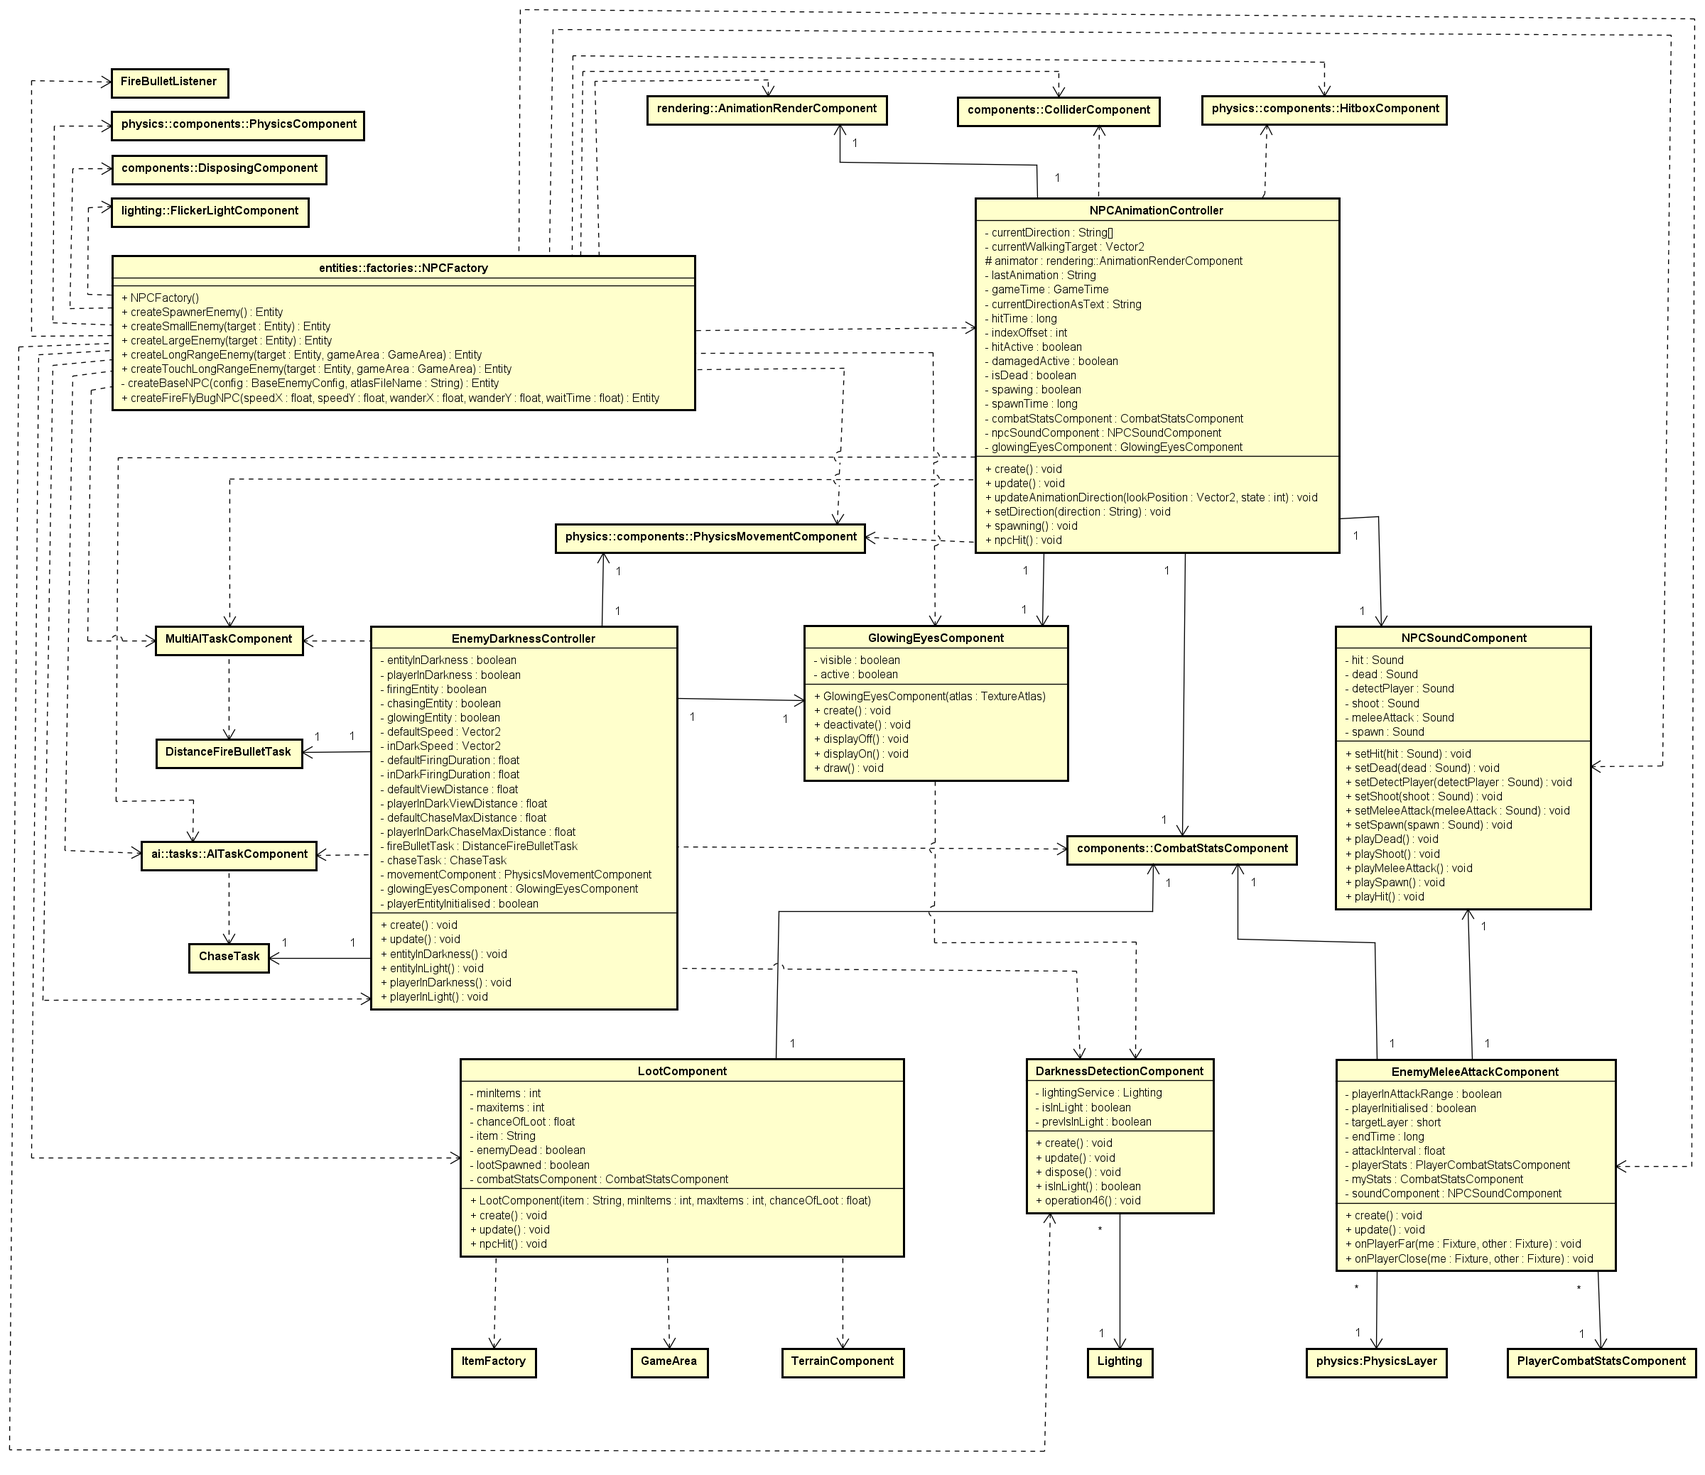
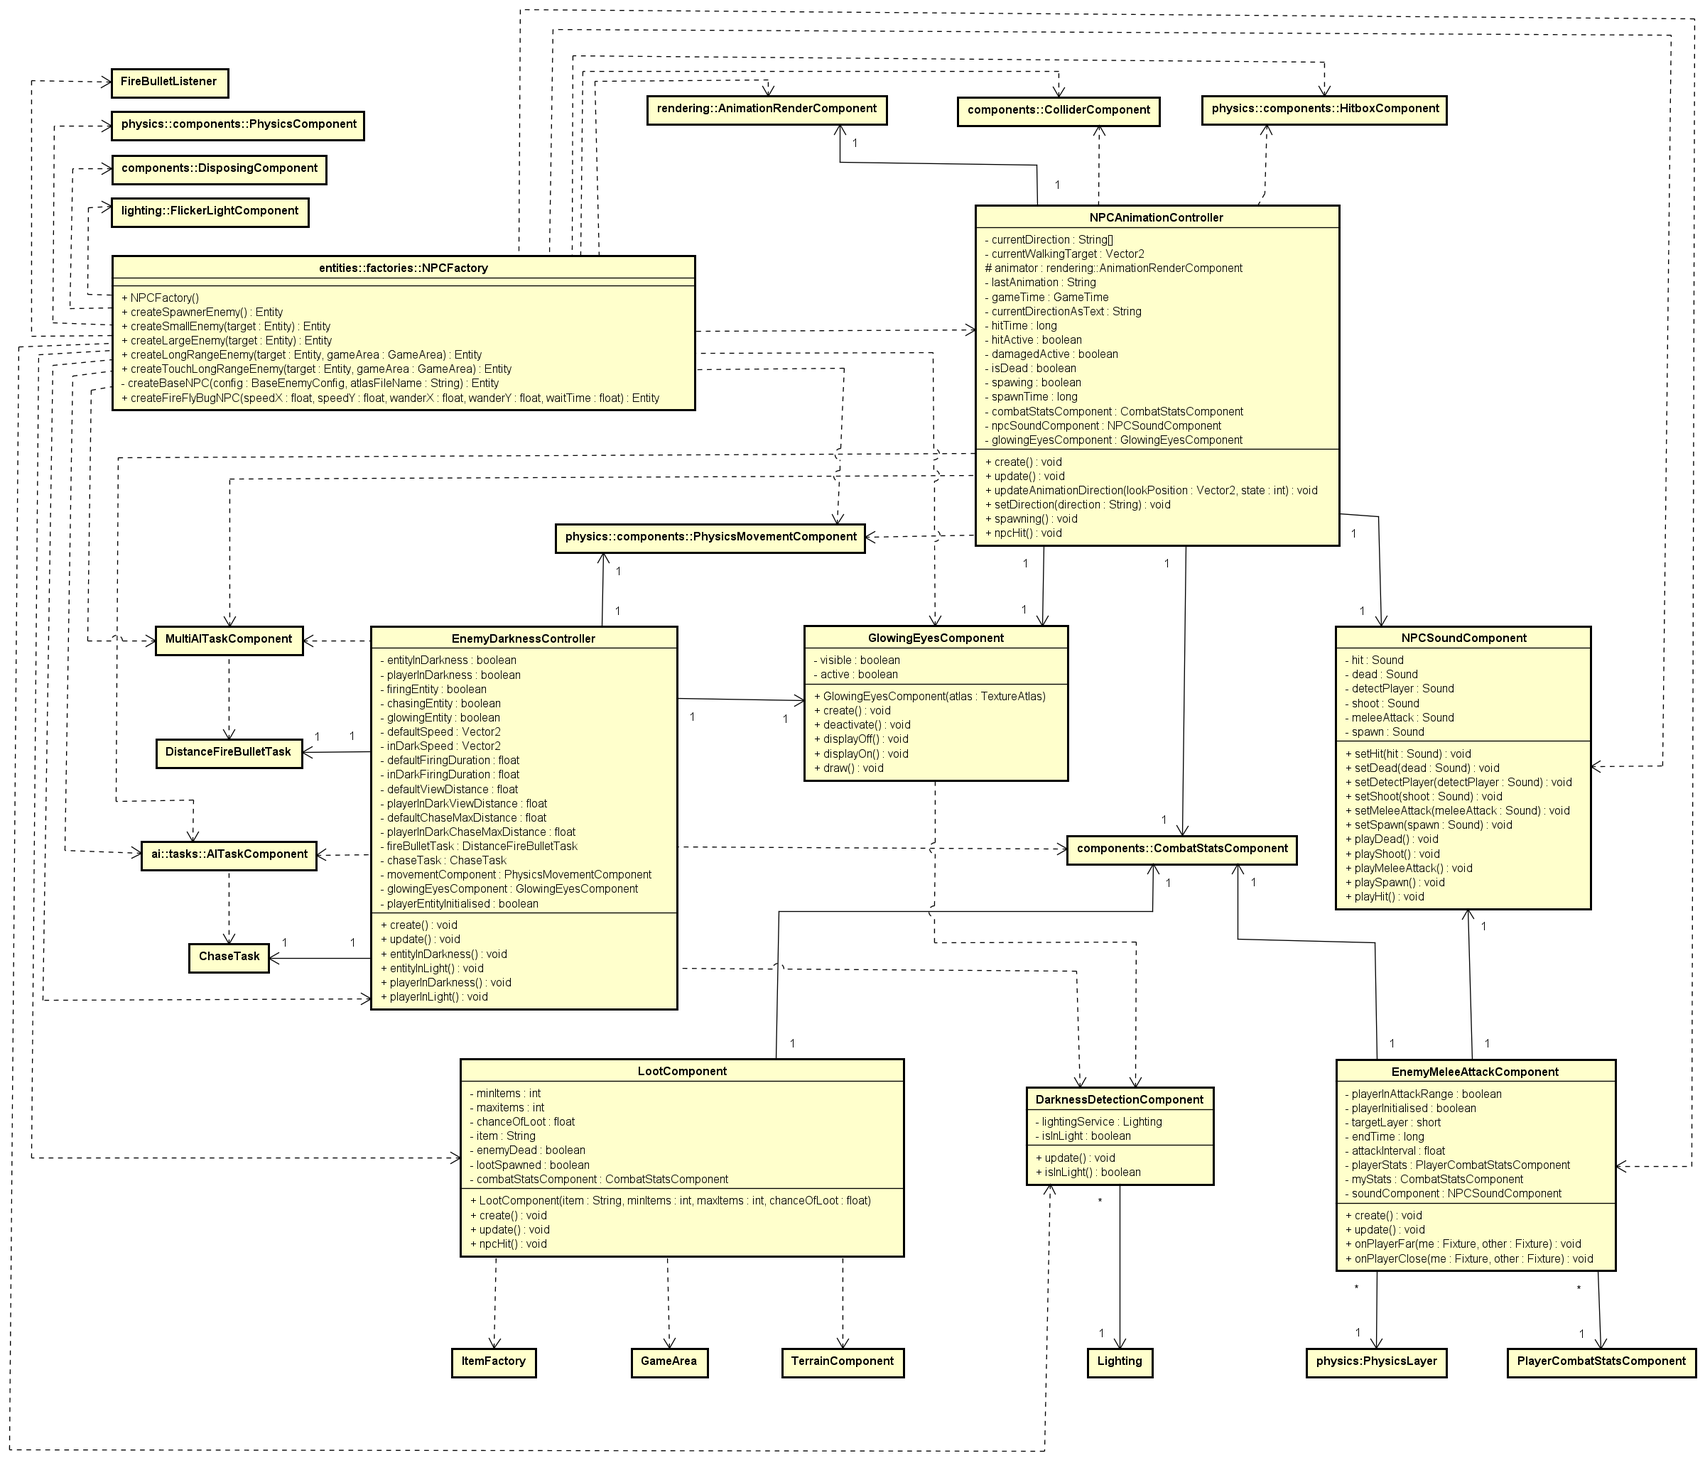
fix some code smells, update enemy uml wiki asset

Changed region(s): [[0.5625, 0.1233, 0.7812, 0.4006], [0.5938, 0.7087, 0.7188, 0.832]]

diff --git a/source/core/src/main/com/deco2800/game/entities/factories/EnemyBulletFactory.java b/source/core/src/main/com/deco2800/game/entities/factories/EnemyBulletFactory.java
@@ -7,12 +7,14 @@ import com.deco2800.game.areas.GameArea;
 import com.deco2800.game.components.CombatStatsComponent;
 import com.deco2800.game.components.TouchAttackComponent;
 import com.deco2800.game.components.npc.BulletCollider;
+import com.deco2800.game.components.npc.ToughFireBulletListener;
 import com.deco2800.game.entities.Entity;
 import com.deco2800.game.lighting.PointLightComponent;
 import com.deco2800.game.physics.PhysicsLayer;
 import com.deco2800.game.physics.PhysicsUtils;
 import com.deco2800.game.physics.components.*;
 import com.deco2800.game.rendering.TextureRenderComponent;
+import com.deco2800.game.services.ServiceLocator;
 
 /**
  * Factory to create 'bullets' from a source entity to a dest entity
@@ -22,11 +24,10 @@ public class EnemyBulletFactory {
 
     /** Creates a bullet entity firing from a source entity through a  target entity
      * @param target the target entity to be fired at
-     * @param gameArea need to spawn the entity in
      * @param source the source of the bullet
      * @param textureFileName the filename for the texture
      */
-    public static void createBullet(Entity source, Entity target, GameArea gameArea, String textureFileName) {
+    public static void createBullet(Entity source, Entity target, String textureFileName) {
 
         float x1 = source.getPosition().x;
         float y1 = source.getPosition().y;
@@ -35,9 +36,10 @@ public class EnemyBulletFactory {
 
         Vector2 newTarget = new Vector2(x2 - x1, y2 - y1);
 
-        Entity bullet = makeBullet(rotateTexture(newTarget, source, x1, y1), newTarget, target, gameArea,
-                source, x1, y1, true, textureFileName);
+        Entity bullet = makeBullet(rotateTexture(newTarget, source, x1, y1), newTarget, target,
+                source, x1, y1, textureFileName);
 
+        GameArea gameArea = ServiceLocator.getGameArea();
         gameArea.spawnEntity(bullet);
     }
 
@@ -46,10 +48,9 @@ public class EnemyBulletFactory {
      * is shifted up 45 degrees from the straight vector and the other is shifted down 45 degrees from the straight vectpr.
      * @param source the source of the bullet
      * @param target the target entity to be fired at
-     * @param gameArea need to spawn the entity in
      * @param textureFileName the filename for the texture
      */
-    public static void createToughBullet(Entity source, Entity target, GameArea gameArea, String textureFileName) {
+    public static void createToughBullet(Entity source, Entity target, String textureFileName) {
         float x1 = source.getPosition().x;
         float y1 = source.getPosition().y;
         float x2 = target.getPosition().x;
@@ -63,15 +64,16 @@ public class EnemyBulletFactory {
         //Shifted down 45 degrees from the straight vector
         Vector2 downRotate = rotateVector(straightTarget, -(Math.PI)/4);
 
-        Entity bulletStraight = makeBullet(rotateTexture(straightTarget, source, x1, y1), straightTarget, target, gameArea,
-                source, x1, y1, false, textureFileName);
+        Entity bulletStraight = makeBullet(rotateTexture(straightTarget, source, x1, y1), straightTarget, target,
+                source, x1, y1, textureFileName);
 
-        Entity bulletUp = makeBullet(rotateTexture(upRotate, source, x1, y1), upRotate, target, gameArea,
-                source, x1, y1, false, textureFileName);
+        Entity bulletUp = makeBullet(rotateTexture(upRotate, source, x1, y1), upRotate, target,
+                source, x1, y1, textureFileName);
 
-        Entity bulletDown = makeBullet(rotateTexture(downRotate, source, x1, y1), downRotate, target, gameArea,
-                source, x1, y1, false, textureFileName);
+        Entity bulletDown = makeBullet(rotateTexture(downRotate, source, x1, y1), downRotate, target,
+                source, x1, y1, textureFileName);
 
+        GameArea gameArea = ServiceLocator.getGameArea();
         gameArea.spawnEntity(bulletStraight);
         gameArea.spawnEntity(bulletUp);
         gameArea.spawnEntity(bulletDown);
@@ -82,15 +84,15 @@ public class EnemyBulletFactory {
      * Calculates the rotation of the bullet texture to point at its target
      * @param rotate the vector to the target
      * @param source the source of the bullet
-     * @param x_1 the x coordinate of the source
-     * @param y_1 the y coordinate of the source
+     * @param x1 the x coordinate of the source
+     * @param y1 the y coordinate of the source
      * @return the rotation of the texture
      */
-    private static float rotateTexture(Vector2 rotate, Entity source, float x_1, float y_1) {
+    private static float rotateTexture(Vector2 rotate, Entity source, float x1, float y1) {
         rotate = rotate.scl(100);
         rotate = rotate.add(source.getPosition());
 
-        return (MathUtils.radiansToDegrees * MathUtils.atan2(rotate.y - y_1, rotate.x - x_1));
+        return (MathUtils.radiansToDegrees * MathUtils.atan2(rotate.y - y1, rotate.x - x1));
     }
 
     /**
@@ -113,16 +115,14 @@ public class EnemyBulletFactory {
      * @param rotation the rotation of the bullet in radians
      * @param destination the vector the bullet follows
      * @param target the target of the bullet
-     * @param gameArea the area to spawn the entity in
      * @param source the source of the bullet
-     * @param x_1 the x coordinate of the source
-     * @param y_1 the y coordinate of the source
+     * @param x1 the x coordinate of the source
+     * @param y1 the y coordinate of the source
      * @param imagePath the image path for the bullet texture
-     * @param bloodBall whether it is a bloodball or not
      * @return the bullet entity
      */
-    private static Entity makeBullet(float rotation, Vector2 destination, Entity target, GameArea gameArea,
-                                     Entity source, float x_1, float y_1, boolean bloodBall, String imagePath) {
+    private static Entity makeBullet(float rotation, Vector2 destination, Entity target,
+                                     Entity source, float x1, float y1, String imagePath) {
 
         // Create the bullet entity
         Entity bullet = new Entity()
@@ -133,13 +133,13 @@ public class EnemyBulletFactory {
                 .addComponent(new HitboxComponent().setLayer(PhysicsLayer.ENEMYBULLET))
                 .addComponent(new CombatStatsComponent(1, 2))
                 .addComponent(new TouchAttackComponent(PhysicsLayer.PLAYER, 0.2f))
-                .addComponent(new BulletCollider(target, gameArea, PhysicsLayer.PLAYER));
+                .addComponent(new BulletCollider(target, ServiceLocator.getGameArea(), PhysicsLayer.PLAYER));
 
         // If it is a bloodball then add the light component
-        if (bloodBall) {
+        if (source.getComponent(ToughFireBulletListener.class) == null) {
             bullet.addComponent(new PointLightComponent(new Color(0x691e47aa), 0.5f, 0, 0));
             PhysicsUtils.setEntityPhysics(bullet, 0f, 0.2f, 0.2f, 0f, 0f);
-        } {
+        } else {
             PhysicsUtils.setEntityPhysics(bullet, 0f, 0.1f, 0.1f, 0f, 0f);
         }
 
@@ -152,10 +152,13 @@ public class EnemyBulletFactory {
         bullet.getComponent(ColliderComponent.class).setSensor(true);
 
         bullet.setPosition(
-                x_1 - bullet.getScale().x / 2 + source.getScale().x / 2,
-                y_1  - bullet.getScale().y / 2  + source.getScale().y / 2);
+                x1 - bullet.getScale().x / 2 + source.getScale().x / 2,
+                y1  - bullet.getScale().y / 2  + source.getScale().y / 2);
 
         return bullet;
     }
 
+    private EnemyBulletFactory() {
+        throw new IllegalStateException("Factory class");
+    }
 }

diff --git a/source/core/src/main/com/deco2800/game/components/npc/NPCAnimationController.java b/source/core/src/main/com/deco2800/game/components/npc/NPCAnimationController.java
@@ -5,7 +5,6 @@ import com.deco2800.game.ai.tasks.AITaskComponent;
 import com.deco2800.game.ai.tasks.MultiAITaskComponent;
 import com.deco2800.game.components.CombatStatsComponent;
 import com.deco2800.game.components.Component;
-import com.deco2800.game.components.TouchAttackComponent;
 import com.deco2800.game.components.tasks.DeadTask;
 import com.deco2800.game.physics.PhysicsLayer;
 import com.deco2800.game.physics.components.ColliderComponent;
@@ -27,16 +26,15 @@ public class NPCAnimationController extends Component {
   private static final String[] ANIMATIONS_BACK = {"back", "back-run", "back-damaged", "back-run-damaged", "back-hit", "back-run-hit", "back-damaged-hit", "back-run-damaged-hit"};
   private static final int STATIONARY = 0;
   private static final int WALKING = 1;
-  private static final long hurtDuration = 200;
-  private static String currentDirectionAsText;
+  private static final long HURT_DURATION = 200;
+  private static final long SPAWN_DURATION = 500;
+  private String currentDirectionAsText;
   private long hitTime;
-  private int indexOffset = 0;
   private boolean hitActive = false;
   private boolean damagedActive = false;
   private boolean isDead = false;
   private boolean spawning = false;
   private long spawnTime;
-  private static final long spawnDuration = 500;
   private CombatStatsComponent combatStatsComponent;
   private NPCSoundComponent npcSoundComponent;
   private GlowingEyesComponent glowingEyesComponent;
@@ -79,13 +77,16 @@ public class NPCAnimationController extends Component {
    */
   @Override
   public void update() {
+    int indexOffset;
+
     // If game paused then don't update anything
     if (gameTime.isPaused()) {
       return;
     }
     // If the entity is dead then start the dead animation
     if (isDead) {
-      if (lastAnimation != "dead") {
+      if (lastAnimation == null || !lastAnimation.equals("dead")) {
+        System.out.println("DEAD");
         animator.startAnimation("dead");
         if (glowingEyesComponent != null) {
           glowingEyesComponent.deactivate();
@@ -96,13 +97,13 @@ public class NPCAnimationController extends Component {
     }
 
     // If the enemy spawn time has expired then switch off spawn variable
-    if (spawning && gameTime.getTimeSince(spawnTime) >= spawnDuration) {
+    if (spawning && gameTime.getTimeSince(spawnTime) >= SPAWN_DURATION) {
       spawning = false;
     }
 
     // If the entity is spawning then start the spawn animation
     if (spawning && !damagedActive) {
-      if (lastAnimation != "spawn") {
+      if (lastAnimation == null || !lastAnimation.equals("spawn")) {
         animator.startAnimation("spawn");
         lastAnimation = "spawn";
       }
@@ -110,7 +111,7 @@ public class NPCAnimationController extends Component {
     }
 
     // If the enemy hit time has expired then switch off hit variable
-    if (hitActive && gameTime.getTimeSince(hitTime) >= hurtDuration) {
+    if (hitActive && gameTime.getTimeSince(hitTime) >= HURT_DURATION) {
       hitActive = false;
     }
 
@@ -217,7 +218,7 @@ public class NPCAnimationController extends Component {
     hitTime = gameTime.getTime();
 
     // If the entity wasn't dead but they are dead now then set entity as dead
-    if (!isDead && combatStatsComponent.isDead()) {
+    if (!isDead && Boolean.TRUE.equals(combatStatsComponent.isDead())) {
       isDead = true;
       npcSoundComponent.playDead();
 

diff --git a/source/core/src/main/com/deco2800/game/components/DarknessDetectionComponent.java b/source/core/src/main/com/deco2800/game/components/DarknessDetectionComponent.java
@@ -1,31 +1,17 @@
 package com.deco2800.game.components;
 
-import com.badlogic.gdx.math.Vector3;
 import com.deco2800.game.lighting.Lighting;
 import com.deco2800.game.services.ServiceLocator;
-import org.slf4j.Logger;
-import org.slf4j.LoggerFactory;
 
 
 public class DarknessDetectionComponent extends Component{
 
-    private static final Logger logger = LoggerFactory.getLogger(DarknessDetectionComponent.class);
     // this is the amount of light that needs to be around the entity to be in light. Higher needs more light.
     public static final String EVENT_IN_LIGHT = "inLight";
     public static final String EVENT_NOT_LIGHT = "inShadow";
 
     private Lighting lightingService = ServiceLocator.getLightingService();
     private boolean isInLight = false;
-    private boolean prevIsInLight = false;
-
-    /**
-     * Called when the entity is created and registered. Initial logic such as calls to GetComponent
-     * should be made here, not in the constructor which is called before an entity is finished.
-     */
-    @Override
-    public void create() {
-        super.create();
-    }
 
     /**
      * Called once per frame of the game, and should be used for most component logic. Not called if
@@ -38,7 +24,7 @@ public class DarknessDetectionComponent extends Component{
         // Minor offset is added otherwise it considers player in light when standing still
         float entityPosX = entity.getCenterPosition().x + 0.01f;
         float entityPosY = entity.getCenterPosition().y + 0.01f;
-        prevIsInLight = isInLight;
+        boolean prevIsInLight = isInLight;
 
         isInLight = lightingService.getRayHandler().pointAtLight(entityPosX, entityPosY);
 
@@ -49,14 +35,6 @@ public class DarknessDetectionComponent extends Component{
                 entity.getEvents().trigger(EVENT_NOT_LIGHT);
             }
         }
-    }
-
-    /**
-     * Called when the component is disposed. Dispose of any internal resources here.
-     */
-    @Override
-    public void dispose() {
-        super.dispose();
     }
 
     public boolean isInLight(){

diff --git a/source/core/src/main/com/deco2800/game/components/BulletCollisionComponent.java b/source/core/src/main/com/deco2800/game/components/BulletCollisionComponent.java
@@ -4,9 +4,7 @@ import com.badlogic.gdx.physics.box2d.Fixture;
 import com.deco2800.game.entities.Entity;
 import com.deco2800.game.physics.BodyUserData;
 import com.deco2800.game.physics.PhysicsLayer;
-import com.deco2800.game.physics.components.PhysicsComponent;
 import com.deco2800.game.physics.components.PhysicsMovementComponent;
-import com.deco2800.game.services.ServiceLocator;
 import org.slf4j.Logger;
 import org.slf4j.LoggerFactory;
 
@@ -24,18 +22,11 @@ public class BulletCollisionComponent extends Component {
     private boolean launchStatus = false;
     private PlayerCombatStatsComponent bulletCombatStats;
 
-    public BulletCollisionComponent() {
-    }
-
     @Override
     public void create() {
         entity.getEvents().addListener("collisionStart", this::bulletHit);
         entity.getEvents().addListener("rockDone", this::disposeRock);
         bulletCombatStats = entity.getComponent(PlayerCombatStatsComponent.class);
-    }
-
-    @Override
-    public void update() {
     }
 
     /**
@@ -79,12 +70,10 @@ public class BulletCollisionComponent extends Component {
                 entity.getEvents().trigger("breakRock");
                 logger.debug("Bullet collided with obstacle's or level wall's layer");
 
-                //entity.getComponent(DisposingComponent.class).toBeReused();
-
             } else if (PhysicsLayer.contains(targetLayer, other.getFilterData().categoryBits)) {
                 this.entity.getComponent(PhysicsMovementComponent.class).setMoving(false);
                 entity.getEvents().trigger("breakRock");
-                //entity.getEvents().trigger("stopRock", this);
+
                 // bullet collides with NPC
                 logger.debug("Bullet collided with NPC's layer");
 

diff --git a/source/core/src/main/com/deco2800/game/components/tasks/SpawnerEnemyTask.java b/source/core/src/main/com/deco2800/game/components/tasks/SpawnerEnemyTask.java
@@ -3,13 +3,11 @@ package com.deco2800.game.components.tasks;
 import com.badlogic.gdx.math.Vector2;
 import com.deco2800.game.ai.tasks.DefaultTask;
 import com.deco2800.game.ai.tasks.PriorityTask;
-import com.deco2800.game.areas.*;
 import com.deco2800.game.components.npc.NPCSoundComponent;
 import com.deco2800.game.services.GameTime;
 import com.deco2800.game.services.ServiceLocator;
 import com.deco2800.game.areas.GameArea;
 import com.deco2800.game.entities.Entity;
-import com.deco2800.game.entities.factories.NPCFactory;
 import com.deco2800.game.physics.PhysicsEngine;
 import com.deco2800.game.physics.PhysicsLayer;
 import com.deco2800.game.physics.raycast.RaycastHit;

diff --git a/source/core/src/main/com/deco2800/game/entities/factories/NPCFactory.java b/source/core/src/main/com/deco2800/game/entities/factories/NPCFactory.java
@@ -61,7 +61,7 @@ public class NPCFactory {
     spawnerNPC.getComponent(PhysicsComponent.class).setBodyType(BodyDef.BodyType.StaticBody);
 
     // Add the spawn animation
-    spawnerNPC.getComponent(AnimationRenderComponent.class).addAnimation("spawn", 0.1f, Animation.PlayMode.LOOP);;
+    spawnerNPC.getComponent(AnimationRenderComponent.class).addAnimation("spawn", 0.1f, Animation.PlayMode.LOOP);
 
     // Add the entity sound effects
     NPCSoundComponent npcSoundComponent = spawnerNPC.getComponent(NPCSoundComponent.class);

diff --git a/source/core/src/main/com/deco2800/game/components/npc/ToughFireBulletListener.java b/source/core/src/main/com/deco2800/game/components/npc/ToughFireBulletListener.java
@@ -34,7 +34,7 @@ public class ToughFireBulletListener extends Component {
      * 'fires' a bullet from the entity to the target
      */
     void fire() {
-        EnemyBulletFactory.createToughBullet(this.entity, target, gameArea, textureFileName);
+        EnemyBulletFactory.createToughBullet(this.entity, target, textureFileName);
     }
 
 }

diff --git a/source/core/src/main/com/deco2800/game/components/npc/FireBulletListener.java b/source/core/src/main/com/deco2800/game/components/npc/FireBulletListener.java
@@ -38,7 +38,7 @@ public class FireBulletListener extends Component {
      * 'fires' a bullet from the entity to the target
      */
     void fire() {
-        EnemyBulletFactory.createBullet(this.entity, target, gameArea, textureFileName);
+        EnemyBulletFactory.createBullet(this.entity, target, textureFileName);
     }
 
 }

diff --git a/source/core/src/main/com/deco2800/game/physics/PhysicsLayer.java b/source/core/src/main/com/deco2800/game/physics/PhysicsLayer.java
@@ -15,7 +15,7 @@ public class PhysicsLayer {
   public static final short ALL = ~0;
   public static final short WEAPON = (1 << 5);
   public static final short ITEM = (1 << 6);
-  public static final short DARKNESS = (2 << 2);
+
   // Safehouse object
   public static final short SAFEHOUSE = (1 << 4);
   // Paraphernalia

diff --git a/source/core/src/main/com/deco2800/game/components/tasks/DistanceFireBulletTask.java b/source/core/src/main/com/deco2800/game/components/tasks/DistanceFireBulletTask.java
@@ -76,11 +76,6 @@ public class DistanceFireBulletTask extends DefaultTask implements PriorityTask 
     }
 
     @Override
-    public void stop() {
-        super.stop();
-    }
-
-    @Override
     public int getPriority() {
         if (status == Status.ACTIVE) {
             return getActivePriority();
